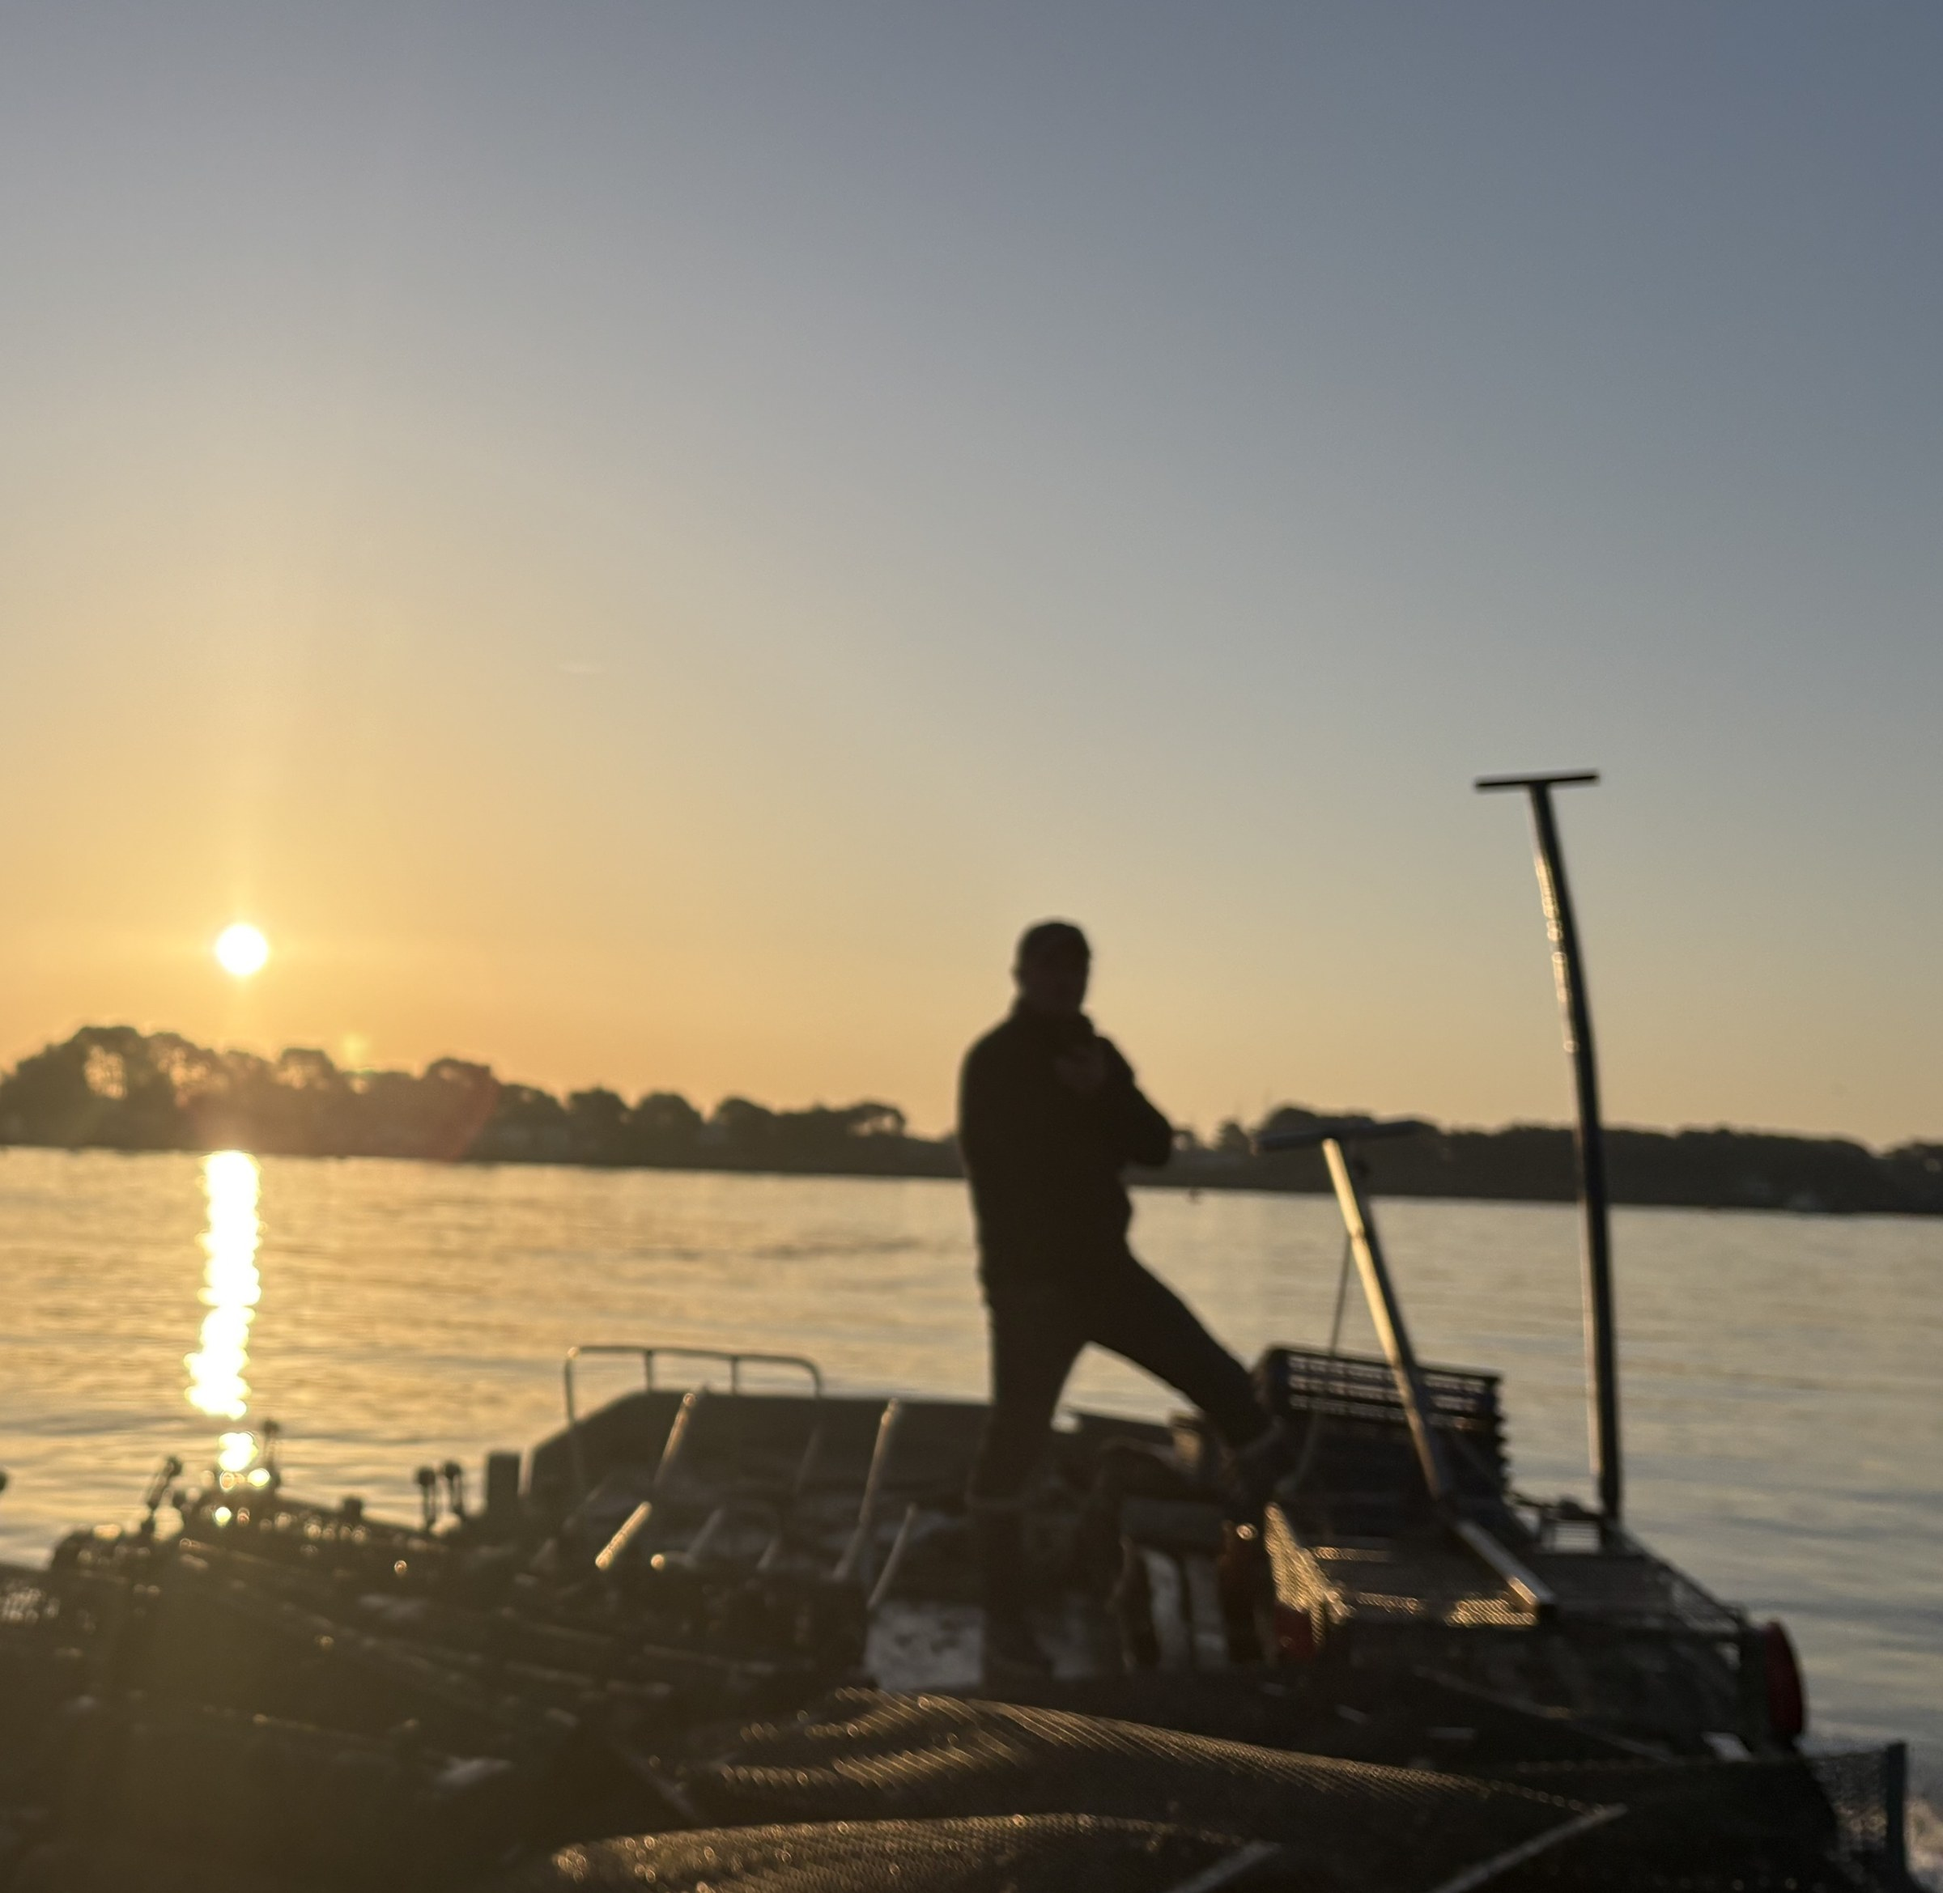
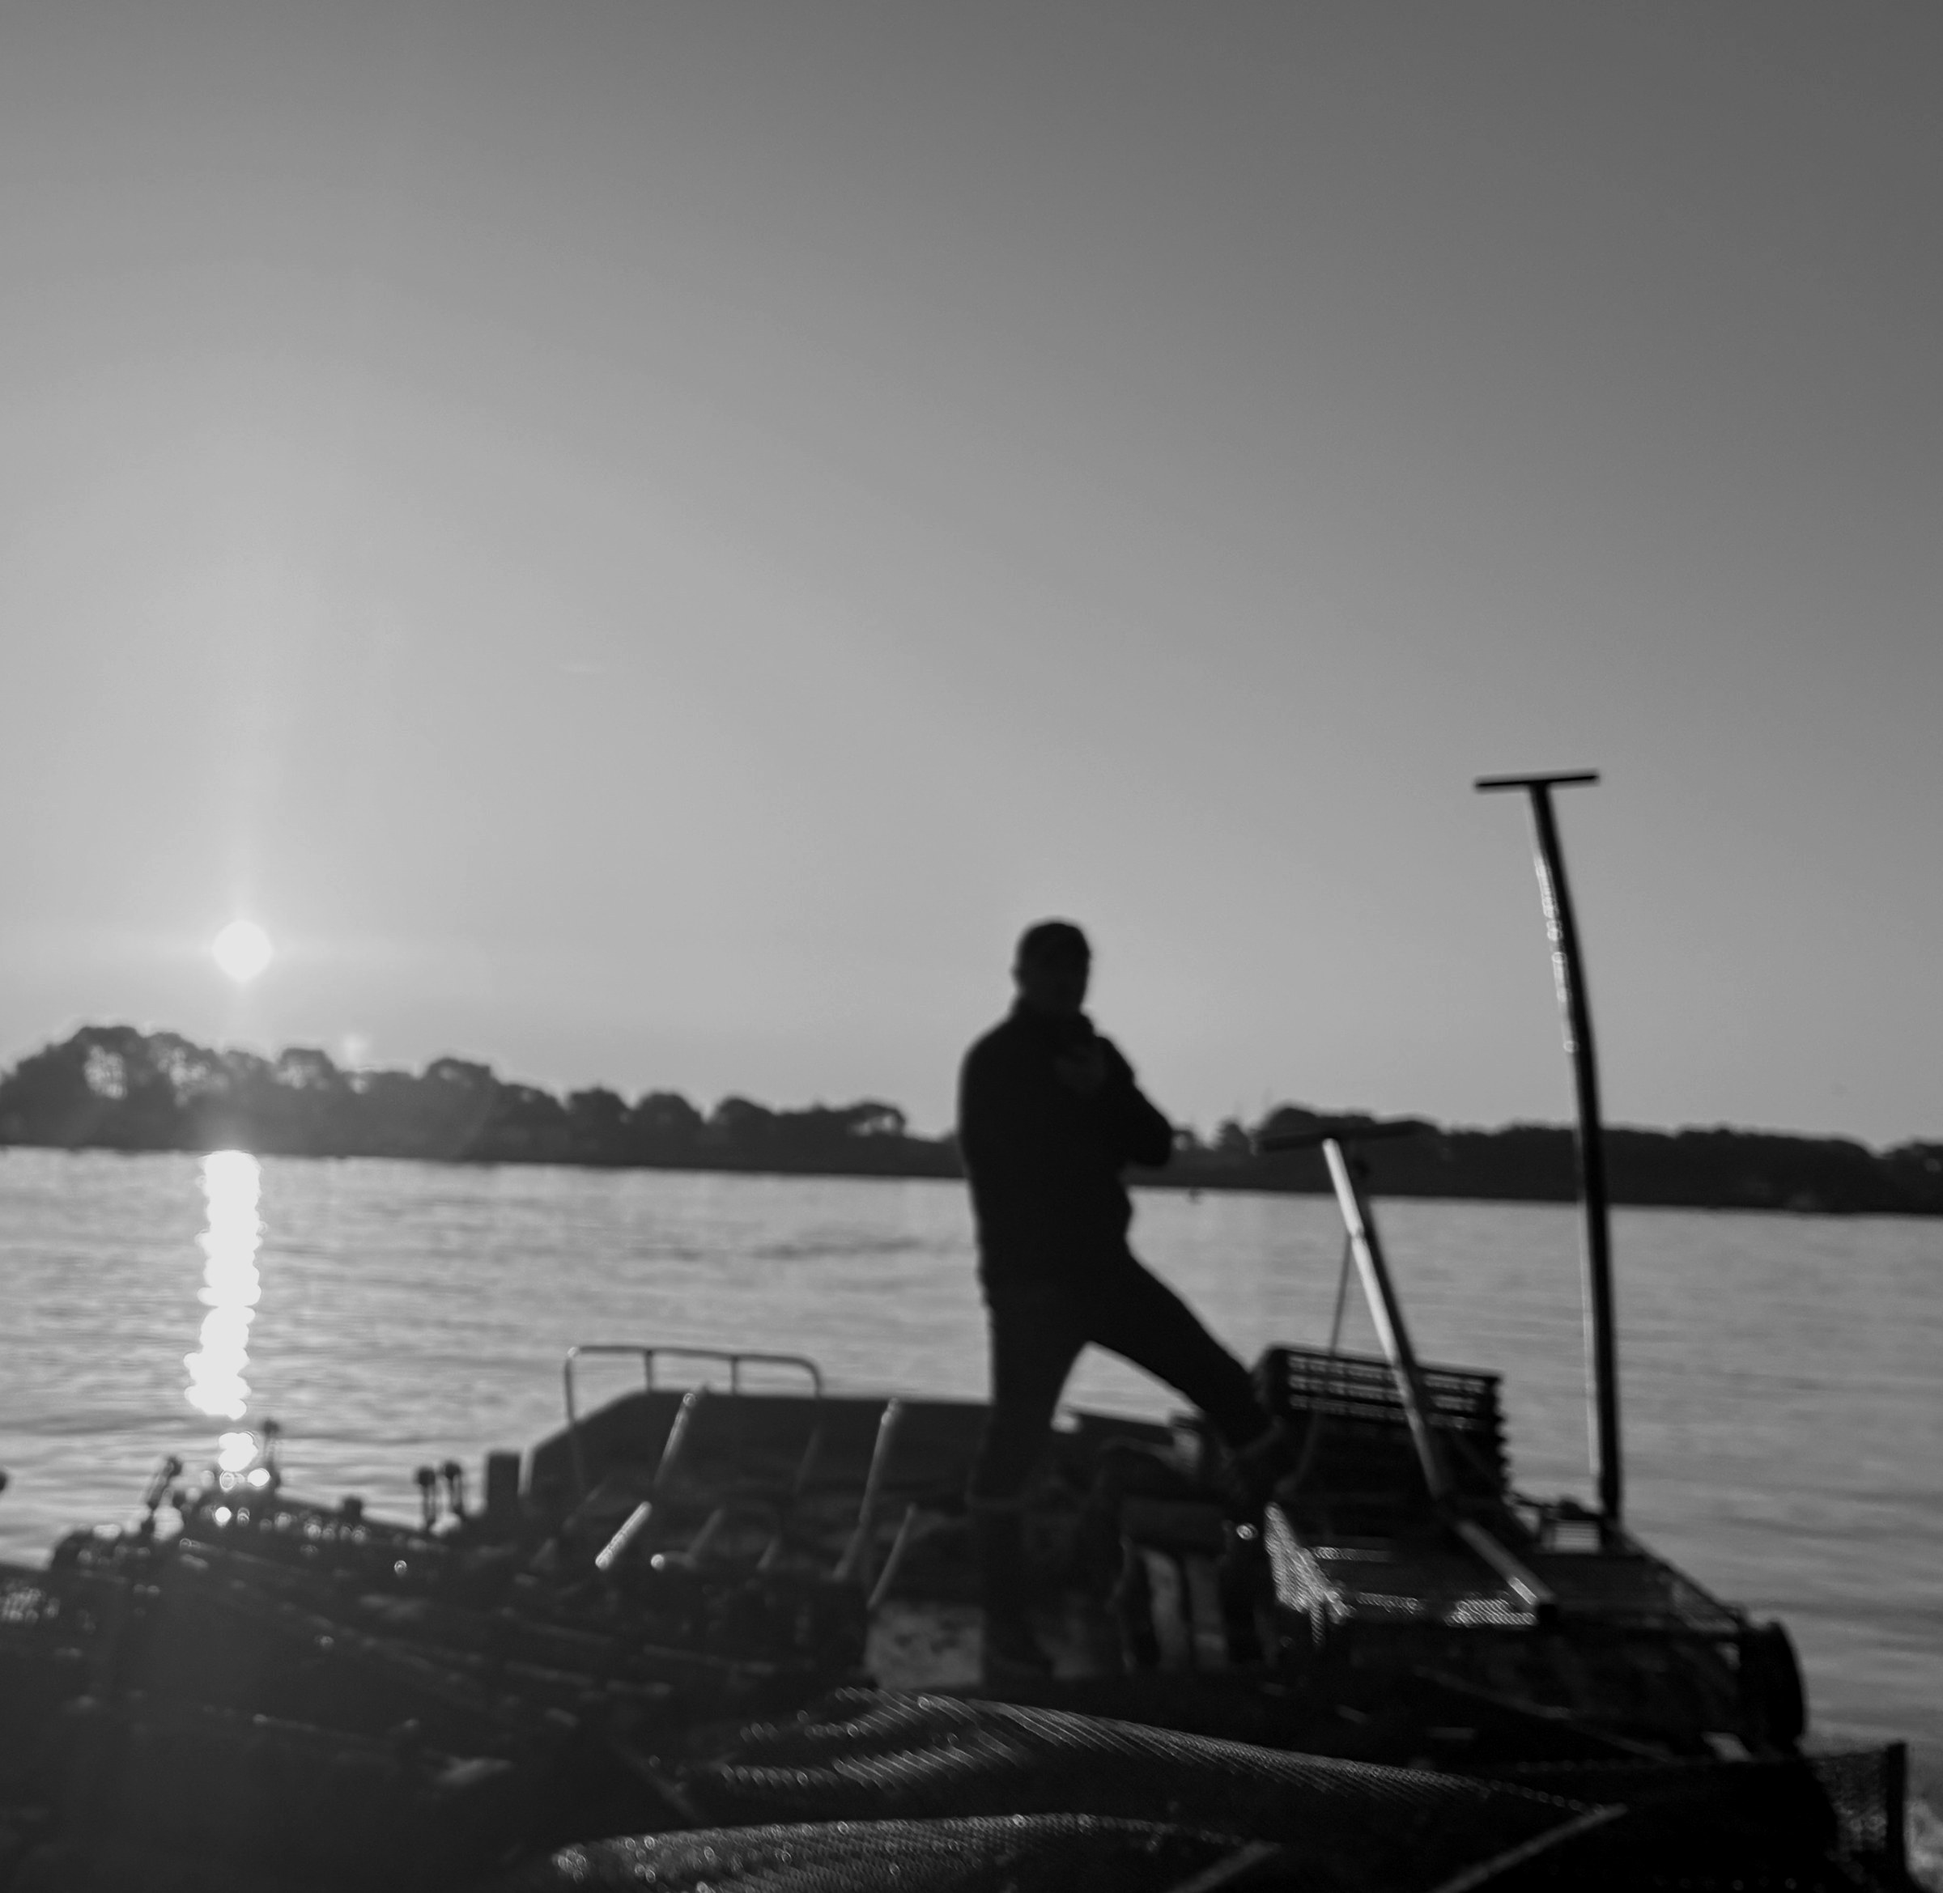
Fusionne la banniere mer dans le fond du footer (suppression de la bande bleue plate)
- Retire le bloc <div class="sea-banner"> separe sur les 4 pages
- Le footer utilise desormais l'image des parcs ostreicoles en background-image avec un degrade sombre integre (linear-gradient navy 88-94%), textes blancs/dores directement lisibles par-dessus
- L'image est desaturee au niveau du fichier (N&B "baked in") plutot que via un filter CSS sur le footer, pour ne pas griser le texte et les accents dores
- Verifie presse.html : les 3 articles style gazette et le bandeau de mentions presse sont intacts (probable cache navigateur/deploi cote utilisateur, aucune perte reelle constatee)

diff --git a/css/style.css b/css/style.css
@@ -1735,16 +1735,22 @@ table.calibre-table tr:last-child td { border-bottom: none; }
 
 /* ---------- Footer ---------- */
 .site-footer {
-  background: var(--navy-900);
+  position: relative;
+  background-image:
+    linear-gradient(rgba(13, 24, 38, 0.88), rgba(13, 24, 38, 0.94)),
+    url('../img/footer-banner-parcs.jpg');
+  background-size: cover;
+  background-position: center 40%;
+  background-repeat: no-repeat;
   color: rgba(255,255,255,0.75);
-  padding-block: var(--space-xl) var(--space-lg);
+  padding-block: calc(var(--space-3xl) + 2rem) var(--space-lg);
 }
 .footer-top {
   display: grid;
   grid-template-columns: 1fr;
   gap: var(--space-xl);
   padding-bottom: var(--space-xl);
-  border-bottom: 1px solid rgba(255,255,255,0.1);
+  border-bottom: 1px solid rgba(255,255,255,0.16);
   margin-bottom: var(--space-lg);
 }
 @media (min-width: 780px) {
@@ -1886,25 +1892,6 @@ table.calibre-table tr:last-child td { border-bottom: none; }
 .js .reveal.is-visible { opacity: 1; transform: translateY(0); }
 @media (prefers-reduced-motion: reduce) {
   .js .reveal { opacity: 1; transform: none; }
-}
-
-/* ---------- Bannière panoramique parcs ostréicoles (au-dessus du footer) ---------- */
-.sea-banner {
-  width: 100%;
-  height: 350px;
-  overflow: hidden;
-  background: var(--navy-900);
-}
-.sea-banner img {
-  display: block;
-  width: 100%;
-  height: 100%;
-  object-fit: cover;
-  object-position: center 40%;
-  filter: grayscale(100%) contrast(1.1) brightness(0.9);
-}
-@media (max-width: 768px) {
-  .sea-banner { height: 220px; }
 }
 
 /* ============================================================

diff --git a/index.html b/index.html
@@ -16,7 +16,7 @@
 <link rel="preconnect" href="https://fonts.gstatic.com" crossorigin>
 <link href="https://fonts.googleapis.com/css2?family=Playfair+Display:wght@500;600;700&family=Dancing+Script:wght@600;700&family=Inter:wght@400;500;600;700&display=swap" rel="stylesheet">
 <link rel="stylesheet" href="https://unpkg.com/leaflet@1.9.4/dist/leaflet.css" integrity="sha256-p4NxAoJBhIIN+hmNHrzRCf9tD/miZyoHS5obTRR9BMY=" crossorigin="">
-<link rel="stylesheet" href="css/style.css?v=16">
+<link rel="stylesheet" href="css/style.css?v=17">
 <script>document.documentElement.classList.add("js");</script>
 </head>
 <body>
@@ -789,11 +789,6 @@
 
 </main>
 
-<!-- ============ BANNIÈRE PARCS OSTRÉICOLES ============ -->
-<div class="sea-banner">
-  <img src="img/footer-banner-parcs.jpg" alt="Vue panoramique des parcs ostréicoles et d'un chaland au coucher du soleil, Golfe du Morbihan" loading="lazy">
-</div>
-
 <!-- ============ PIED DE PAGE ============ -->
 <footer class="site-footer">
   <div class="container">
@@ -846,6 +841,6 @@
 </button>
 
 <script src="https://unpkg.com/leaflet@1.9.4/dist/leaflet.js" integrity="sha256-20nQCchB9co0qIjJZRGuk2/Z9VM+kNiyxNV1lvTlZBo=" crossorigin=""></script>
-<script src="js/main.js?v=16"></script>
+<script src="js/main.js?v=17"></script>
 </body>
 </html>

diff --git a/points-de-vente.html b/points-de-vente.html
@@ -16,7 +16,7 @@
 <link rel="preconnect" href="https://fonts.gstatic.com" crossorigin>
 <link href="https://fonts.googleapis.com/css2?family=Playfair+Display:wght@500;600;700&family=Dancing+Script:wght@600;700&family=Inter:wght@400;500;600;700&display=swap" rel="stylesheet">
 <link rel="stylesheet" href="https://unpkg.com/leaflet@1.9.4/dist/leaflet.css" integrity="sha256-p4NxAoJBhIIN+hmNHrzRCf9tD/miZyoHS5obTRR9BMY=" crossorigin="">
-<link rel="stylesheet" href="css/style.css?v=16">
+<link rel="stylesheet" href="css/style.css?v=17">
 <script>document.documentElement.classList.add("js");</script>
 </head>
 <body>
@@ -177,11 +177,6 @@
 
 </main>
 
-<!-- ============ BANNIÈRE PARCS OSTRÉICOLES ============ -->
-<div class="sea-banner">
-  <img src="img/footer-banner-parcs.jpg" alt="Vue panoramique des parcs ostréicoles et d'un chaland au coucher du soleil, Golfe du Morbihan" loading="lazy">
-</div>
-
 <!-- ============ PIED DE PAGE ============ -->
 <footer class="site-footer">
   <div class="container">
@@ -232,6 +227,6 @@
 </button>
 
 <script src="https://unpkg.com/leaflet@1.9.4/dist/leaflet.js" integrity="sha256-20nQCchB9co0qIjJZRGuk2/Z9VM+kNiyxNV1lvTlZBo=" crossorigin=""></script>
-<script src="js/main.js?v=16"></script>
+<script src="js/main.js?v=17"></script>
 </body>
 </html>

diff --git a/histoire.html b/histoire.html
@@ -15,7 +15,7 @@
 <link rel="preconnect" href="https://fonts.googleapis.com">
 <link rel="preconnect" href="https://fonts.gstatic.com" crossorigin>
 <link href="https://fonts.googleapis.com/css2?family=Playfair+Display:wght@500;600;700&family=Dancing+Script:wght@600;700&family=Inter:wght@400;500;600;700&display=swap" rel="stylesheet">
-<link rel="stylesheet" href="css/style.css?v=16">
+<link rel="stylesheet" href="css/style.css?v=17">
 <script>document.documentElement.classList.add("js");</script>
 </head>
 <body>
@@ -315,11 +315,6 @@
   </figure>
 </div>
 
-<!-- ============ BANNIÈRE PARCS OSTRÉICOLES ============ -->
-<div class="sea-banner">
-  <img src="img/footer-banner-parcs.jpg" alt="Vue panoramique des parcs ostréicoles et d'un chaland au coucher du soleil, Golfe du Morbihan" loading="lazy">
-</div>
-
 <!-- ============ PIED DE PAGE ============ -->
 <footer class="site-footer">
   <div class="container">
@@ -369,6 +364,6 @@
   <svg viewBox="0 0 24 24" fill="none" stroke="currentColor" stroke-width="2.2" stroke-linecap="round" stroke-linejoin="round"><path d="M12 19V5"/><path d="m5 12 7-7 7 7"/></svg>
 </button>
 
-<script src="js/main.js?v=16"></script>
+<script src="js/main.js?v=17"></script>
 </body>
 </html>

diff --git a/presse.html b/presse.html
@@ -15,7 +15,7 @@
 <link rel="preconnect" href="https://fonts.googleapis.com">
 <link rel="preconnect" href="https://fonts.gstatic.com" crossorigin>
 <link href="https://fonts.googleapis.com/css2?family=Playfair+Display:wght@500;600;700&family=Dancing+Script:wght@600;700&family=Inter:wght@400;500;600;700&display=swap" rel="stylesheet">
-<link rel="stylesheet" href="css/style.css?v=16">
+<link rel="stylesheet" href="css/style.css?v=17">
 <script>document.documentElement.classList.add("js");</script>
 </head>
 <body>
@@ -170,11 +170,6 @@
   </figure>
 </div>
 
-<!-- ============ BANNIÈRE PARCS OSTRÉICOLES ============ -->
-<div class="sea-banner">
-  <img src="img/footer-banner-parcs.jpg" alt="Vue panoramique des parcs ostréicoles et d'un chaland au coucher du soleil, Golfe du Morbihan" loading="lazy">
-</div>
-
 <!-- ============ PIED DE PAGE ============ -->
 <footer class="site-footer">
   <div class="container">
@@ -224,6 +219,6 @@
   <svg viewBox="0 0 24 24" fill="none" stroke="currentColor" stroke-width="2.2" stroke-linecap="round" stroke-linejoin="round"><path d="M12 19V5"/><path d="m5 12 7-7 7 7"/></svg>
 </button>
 
-<script src="js/main.js?v=16"></script>
+<script src="js/main.js?v=17"></script>
 </body>
 </html>

diff --git a/merci.html b/merci.html
@@ -9,7 +9,7 @@
 <link rel="preconnect" href="https://fonts.googleapis.com">
 <link rel="preconnect" href="https://fonts.gstatic.com" crossorigin>
 <link href="https://fonts.googleapis.com/css2?family=Playfair+Display:wght@500;600;700&family=Dancing+Script:wght@600;700&family=Inter:wght@400;500;600;700&display=swap" rel="stylesheet">
-<link rel="stylesheet" href="css/style.css?v=16">
+<link rel="stylesheet" href="css/style.css?v=17">
 </head>
 <body style="background:var(--navy-900);">
 <div style="min-height:100svh; display:flex; align-items:center; justify-content:center; padding:var(--space-lg);">
